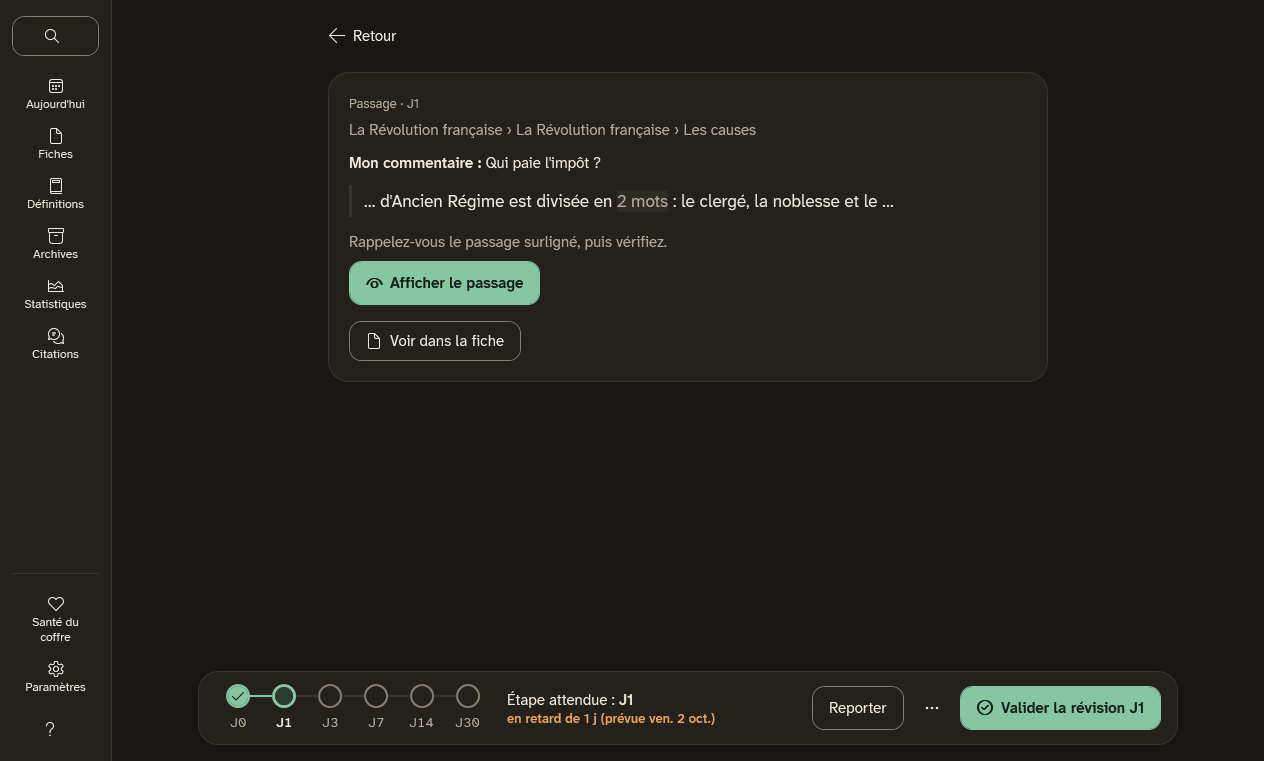
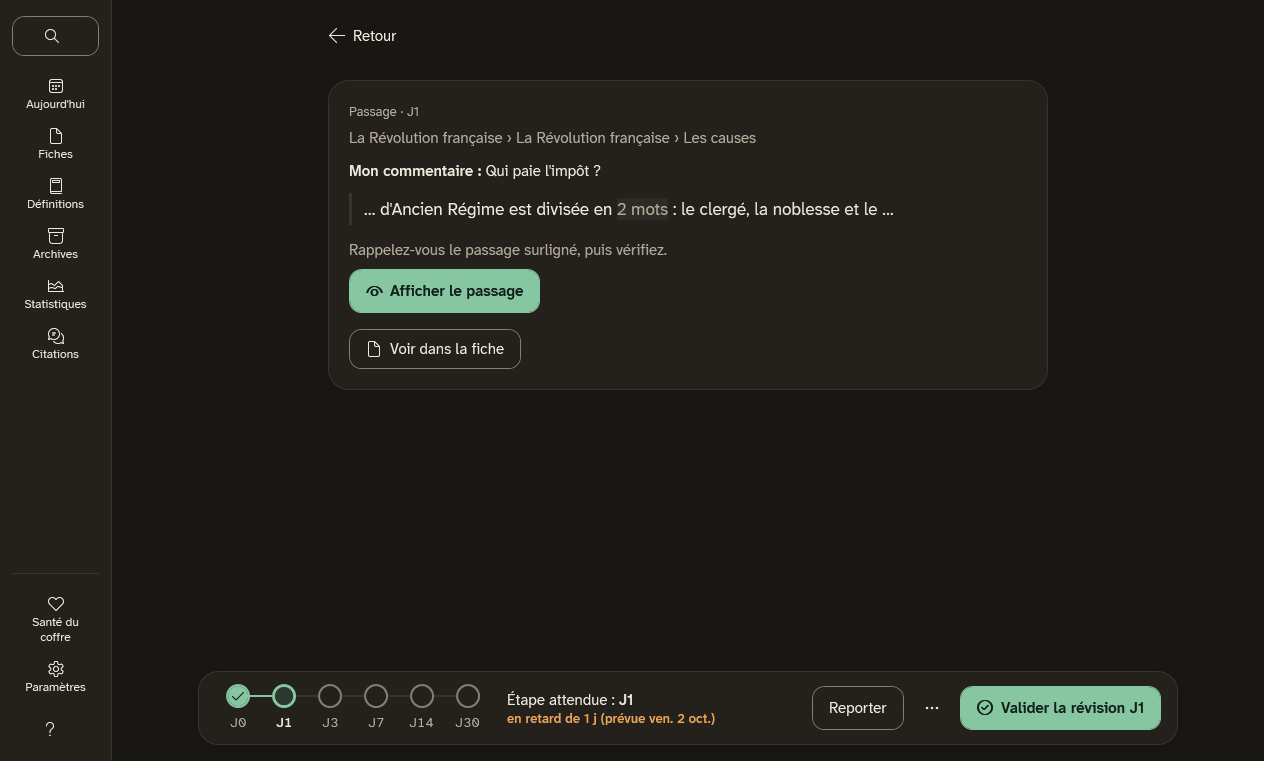
Fiche et passage : le bouton Retour reste accessible quand la page défile
Il défilait avec la fiche : en bas d'une longue fiche, il fallait remonter pour revenir à la liste. Il
a maintenant sa propre rangée au-dessus de la zone qui défile, alignée sur la colonne de lecture, comme
la barre de révision en dessous.

Changed region(s): [[0.2777, 0.1209, 0.6788, 0.4836]]

diff --git a/src/KyfRev.Presentation.Wpf/Pages/PassagePage.xaml b/src/KyfRev.Presentation.Wpf/Pages/PassagePage.xaml
@@ -24,19 +24,24 @@
 
   <Grid>
     <Grid.RowDefinitions>
+      <RowDefinition Height="Auto" />
       <RowDefinition Height="*" />
       <RowDefinition Height="Auto" />
     </Grid.RowDefinitions>
 
-    <ScrollViewer VerticalScrollBarVisibility="Auto" Focusable="False">
-      <StackPanel Margin="16" MaxWidth="720">
-        <Button x:Name="BackButton" Command="{Binding BackCommand}" Style="{DynamicResource Kyf.Button.Subtle}" HorizontalAlignment="Left" Margin="-16,0,0,0"
-                AutomationProperties.Name="{x:Static pages:ReviewText.Back}">
-          <StackPanel Orientation="Horizontal">
-            <kyf:Icon Text="{x:Static kyf:Icons.Back}" Margin="0,0,8,0" />
-            <TextBlock Text="{x:Static pages:ReviewText.Back}" VerticalAlignment="Center" />
-          </StackPanel>
-        </Button>
+    <!-- Le retour reste à portée, même la page défilée. Aligné sur la colonne de lecture. -->
+    <Grid MaxWidth="720" Margin="16,16,16,0">
+      <Button x:Name="BackButton" Command="{Binding BackCommand}" Style="{DynamicResource Kyf.Button.Subtle}" HorizontalAlignment="Left" Margin="-16,0,0,0"
+              AutomationProperties.Name="{x:Static pages:ReviewText.Back}">
+        <StackPanel Orientation="Horizontal">
+          <kyf:Icon Text="{x:Static kyf:Icons.Back}" Margin="0,0,8,0" />
+          <TextBlock Text="{x:Static pages:ReviewText.Back}" VerticalAlignment="Center" />
+        </StackPanel>
+      </Button>
+    </Grid>
+
+    <ScrollViewer Grid.Row="1" VerticalScrollBarVisibility="Auto" Focusable="False">
+      <StackPanel Margin="16,8,16,16" MaxWidth="720">
 
         <TextBlock x:Name="Loading" Text="{x:Static pages:ReviewText.OpeningPassage}" Style="{DynamicResource Kyf.Text.Secondary}" Margin="0,16,0,0"
                    Visibility="{Binding IsLoading, Converter={StaticResource Visible}}" />
@@ -118,9 +123,9 @@
     </ScrollViewer>
 
     <!-- Toujours visible, même la carte défilée. -->
-    <ContentControl Grid.Row="1" Content="{Binding Review}" Focusable="False" IsTabStop="False" Margin="16,8,16,16" />
+    <ContentControl Grid.Row="2" Content="{Binding Review}" Focusable="False" IsTabStop="False" Margin="16,8,16,16" />
 
-    <kyf:Dialog x:Name="Confirmation" Grid.RowSpan="2" Title="{Binding Review.ConfirmTitle}" IsOpen="{Binding Review.IsConfirming, Mode=OneWay}"
+    <kyf:Dialog x:Name="Confirmation" Grid.RowSpan="3" Title="{Binding Review.ConfirmTitle}" IsOpen="{Binding Review.IsConfirming, Mode=OneWay}"
                 PrimaryButtonText="{Binding Review.ConfirmLabel}" Closed="OnConfirmationClosed">
       <TextBlock Text="{Binding Review.ConfirmMessage}" Style="{DynamicResource Kyf.Text.Body}" TextWrapping="Wrap" />
     </kyf:Dialog>

diff --git a/src/KyfRev.Presentation.Wpf/Pages/SheetPage.xaml b/src/KyfRev.Presentation.Wpf/Pages/SheetPage.xaml
@@ -14,21 +14,26 @@
   <Grid>
     <Grid>
       <Grid.RowDefinitions>
+        <RowDefinition Height="Auto" />
         <RowDefinition Height="*" />
         <RowDefinition Height="Auto" />
       </Grid.RowDefinitions>
 
+      <!-- Le retour reste à portée, même la page défilée. Aligné sur la colonne de lecture. -->
+      <Grid MaxWidth="720" Margin="16,16,16,0">
+        <Button x:Name="BackButton" Command="{Binding BackCommand}" Style="{DynamicResource Kyf.Button.Subtle}" HorizontalAlignment="Left" Margin="-16,0,0,0"
+                AutomationProperties.Name="{x:Static pages:ReviewText.Back}">
+          <StackPanel Orientation="Horizontal">
+            <kyf:Icon Text="{x:Static kyf:Icons.Back}" Margin="0,0,8,0" />
+            <TextBlock Text="{x:Static pages:ReviewText.Back}" VerticalAlignment="Center" />
+          </StackPanel>
+        </Button>
+      </Grid>
+
       <!-- La fiche, au centre et à largeur de lecture ; elle défile seule. -->
-      <ScrollViewer VerticalScrollBarVisibility="Auto" Focusable="False">
-        <StackPanel MaxWidth="720" Margin="16">
-          <Button x:Name="BackButton" Command="{Binding BackCommand}" Style="{DynamicResource Kyf.Button.Subtle}" HorizontalAlignment="Left" Margin="-16,0,0,0"
-                  AutomationProperties.Name="{x:Static pages:ReviewText.Back}">
-            <StackPanel Orientation="Horizontal">
-              <kyf:Icon Text="{x:Static kyf:Icons.Back}" Margin="0,0,8,0" />
-              <TextBlock Text="{x:Static pages:ReviewText.Back}" VerticalAlignment="Center" />
-            </StackPanel>
-          </Button>
-          <ItemsControl ItemsSource="{Binding Details}" Focusable="False" Margin="0,8,0,0">
+      <ScrollViewer Grid.Row="1" VerticalScrollBarVisibility="Auto" Focusable="False">
+        <StackPanel MaxWidth="720" Margin="16,8,16,16">
+          <ItemsControl ItemsSource="{Binding Details}" Focusable="False">
             <ItemsControl.ItemsPanel>
               <ItemsPanelTemplate>
                 <WrapPanel />
@@ -51,7 +56,7 @@
       </ScrollViewer>
 
       <!-- Toujours visible, même la fiche défilée. -->
-      <ContentControl Grid.Row="1" Content="{Binding Review}" Focusable="False" IsTabStop="False" Margin="16,8,16,16" />
+      <ContentControl Grid.Row="2" Content="{Binding Review}" Focusable="False" IsTabStop="False" Margin="16,8,16,16" />
     </Grid>
 
     <kyf:Dialog x:Name="Confirmation" Title="{Binding Review.ConfirmTitle}" IsOpen="{Binding Review.IsConfirming, Mode=OneWay}"

diff --git a/tests/KyfRev.Presentation.Wpf.Tests/ReviewTests.cs b/tests/KyfRev.Presentation.Wpf.Tests/ReviewTests.cs
@@ -518,6 +518,57 @@ public sealed class ReviewTests
     }
 
     [STATestMethod]
+    public void The_back_button_stays_in_view_when_the_sheet_scrolls()
+    {
+        using var ui = new UiThread();
+        using var vault = new ReviewVault();
+        var opened = vault.App.Sheets.Open(vault.SheetId).Value;
+        var body = string.Join(Environment.NewLine, Enumerable.Repeat("Un paragraphe.", 200));
+        Assert.IsTrue(vault.App.Editing.Save(vault.SheetId, body, opened.Fingerprint, 1).Succeeded);
+        var page = vault.SheetPage(vault.SheetId);
+        page.LoadCommand.Execute(null);
+        UiThread.Until(() => !page.IsLoading);
+        var window = Show(new TestShell(), page);
+        try
+        {
+            var back = Named<Button>(window, "BackButton");
+            var text = Named<TextBlock>(window, "Body");
+            var scroller = Descendants(window).OfType<ScrollViewer>().First(text.IsDescendantOf);
+            var before = back.TranslatePoint(default, window);
+
+            scroller.ScrollToEnd();
+            TestShell.Flush();
+
+            Assert.IsGreaterThan(0, scroller.VerticalOffset);
+            Assert.AreEqual(before, back.TranslatePoint(default, window));
+        }
+        finally
+        {
+            window.Close();
+        }
+    }
+
+    [STATestMethod]
+    public void The_back_button_of_a_passage_does_not_scroll_either()
+    {
+        using var ui = new UiThread();
+        using var vault = new ReviewVault();
+        var page = vault.PassagePage(vault.PassageId, vault.SheetId, activeRecall: true);
+        page.LoadCommand.Execute(null);
+        UiThread.Until(() => !page.IsLoading);
+        var window = Show(new TestShell(), page);
+        try
+        {
+            var back = Named<Button>(window, "BackButton");
+            Assert.IsFalse(Descendants(window).OfType<ScrollViewer>().Any(back.IsDescendantOf));
+        }
+        finally
+        {
+            window.Close();
+        }
+    }
+
+    [STATestMethod]
     public void The_sheet_page_shows_the_reminder_answers_instead_of_the_steps()
     {
         using var ui = new UiThread();

diff --git a/tests/KyfRev.Acceptance.Tests/Scenarios.cs b/tests/KyfRev.Acceptance.Tests/Scenarios.cs
@@ -250,7 +250,9 @@ public sealed class Scenarios
         using (var running = trial.Launch(created.AddDays(1)))
         {
             running.Open(Today, Title);
+            var back = running.BackPosition();
             Assert.AreEqual(100, running.ScrollToEnd(), 0.01);
+            Assert.AreEqual(back, running.BackPosition(), "Le retour reste accessible en bas de la fiche.");
             running.Back();
             Assert.IsNotNull(running.Row(Today, Title), "Lire n'est pas réviser.");
         }

diff --git a/tests/KyfRev.Acceptance.Tests/RunningApplication.cs b/tests/KyfRev.Acceptance.Tests/RunningApplication.cs
@@ -165,6 +165,9 @@ internal sealed class RunningApplication : IDisposable
         return scroll.VerticalScrollPercent;
     }
 
+    /// <summary>La position du bouton « Retour » à l'écran : une fiche défilée ne doit pas l'emporter.</summary>
+    public int BackPosition() => Wait("BackButton").BoundingRectangle.Top;
+
     /// <summary>Le texte de l'alerte de saturation des rappels ; rien sans alerte.</summary>
     public string? PriorityWarning()
     {
